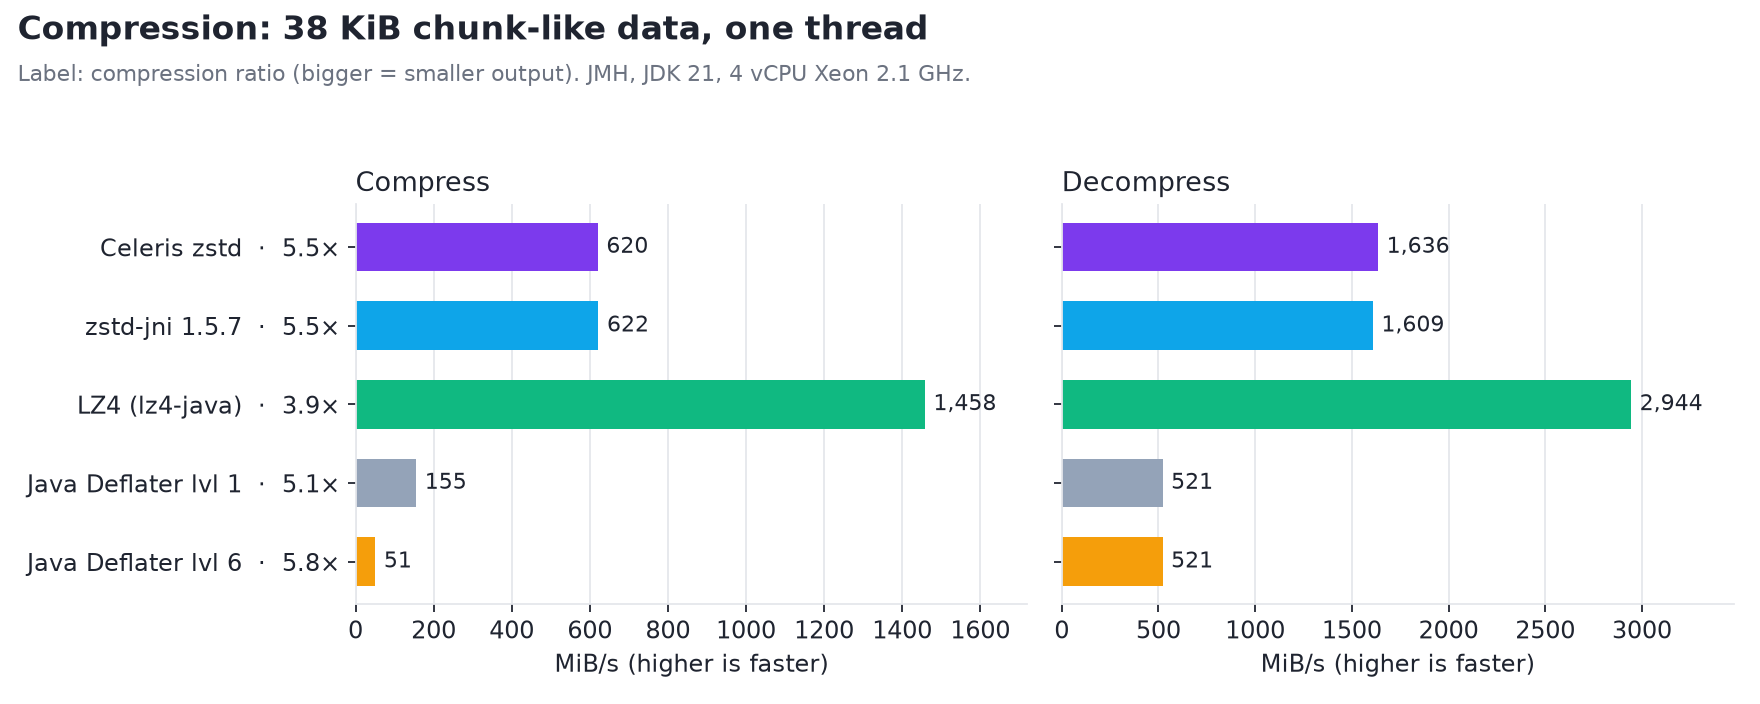
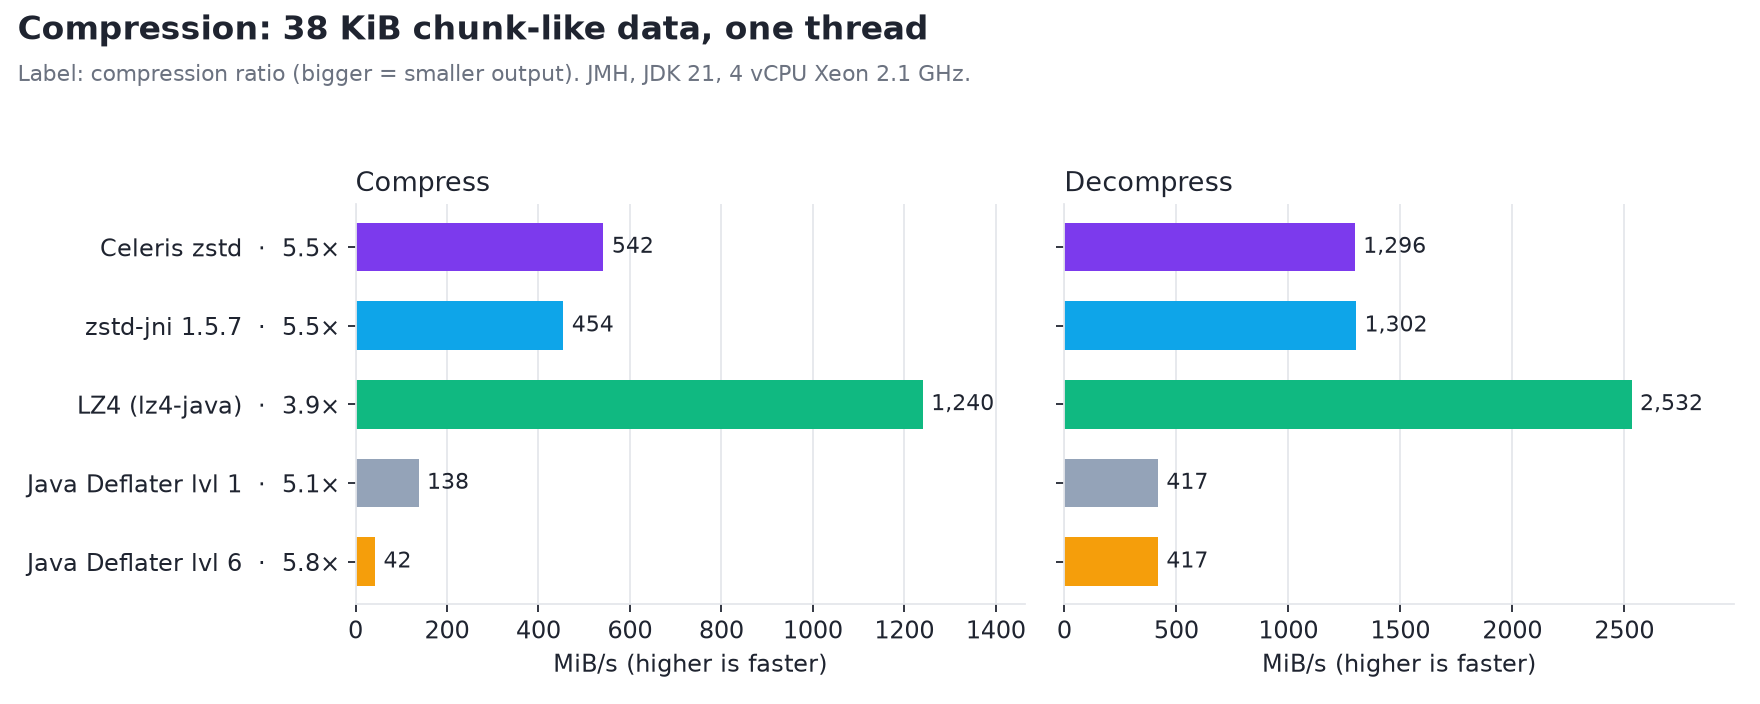
Benchmarks: re-measured on 0.2.3 (4586d93), real-server tick times added
Every number on docs/benchmarks.md and in the README is from this build:
- A real server (panzer-build-logic perf-test run 37779063591, native kernel
  loaded): 20,000 resting items, 139.9 -> 11.9 ms per tick on 1.21.1 (11.8x),
  219.1 -> 29.3 ms on 26.1 (7.5x); new ingame.png.
- JMH, same VM: compression, physics, queues re-run; new broadphase table and
  chart (piles of 4,096 / 16,384 items, stop vs full count).
- The page states the cost of the kernel's input checks and clamped floors
  (7-21 % on the isolated step, measured against the previous build in the
  same session) and where Java and native are level.

diff --git a/docs/benchmarks.md b/docs/benchmarks.md
@@ -1,28 +1,59 @@
 # Celeris benchmarks
 
 How Celeris's building blocks compare with what a mod would otherwise use: the JDK's own classes and the best-known
-Java libraries for the same job. Every number below comes from the code in [`benchmarks/`](../benchmarks) and the raw
-results in [`benchmarks/results/`](../benchmarks/results); `benchmarks/run.sh` reproduces them and redraws the charts.
+Java libraries for the same job, and what that adds up to on a real server. Every number below comes from the code in
+[`benchmarks/`](../benchmarks) and the raw results in [`benchmarks/results/`](../benchmarks/results);
+`benchmarks/run.sh` reproduces the JMH ones and redraws the charts. The in-game numbers come from
+panzer-build-logic's `perf-test` workflow.
 
-**Machine:** 4 vCPU Intel Xeon @ 2.1 GHz (shared cloud VM, AVX2), Linux, OpenJDK 21. **Harness:** JMH 1.37, 1 fork,
-3 × 1 s warm-up, 5 × 1 s measurement (± is JMH's 99.9 % error). A shared VM is noisy: read differences under ~20 % as
-a tie. Your numbers will differ; the ratios are what matter.
+**Measured:** 2026-10-08, Celeris 0.2.3 (commit 4586d93) with Velox 0.1.0. **Machine:** 4 vCPU Intel Xeon @ 2.1 GHz
+(shared cloud VM, AVX2), Linux, OpenJDK 21. **Harness:** JMH 1.37, 1 fork, 3 × 1 s warm-up, 5 × 1 s measurement
+(± is JMH's 99.9 % error). A shared VM is noisy: read differences under ~20 % as a tie. Your numbers will differ; the
+ratios are what matter.
 
 ## Summary
 
 | Job | Celeris | Compared with | Result |
 |---|---|---|---|
-| Compressing mod data (38 KiB) | native zstd, 620 MiB/s, ratio 5.5× | Java `Deflater` level 6 (what Minecraft uses), 51 MiB/s, ratio 5.8× | **12× faster** for nearly the same size |
-| Decompressing it | 1,636 MiB/s | Java `Inflater`, 521 MiB/s | **3.1× faster** |
-| Same, vs zstd-jni 1.5.7 | 620 / 1,636 MiB/s | 622 / 1,609 MiB/s | **tie**: same zstd 1.5.7 underneath, in a 2 MB jar instead of a 7.4 MB one |
-| Moving 10,000 dropped items one tick | 0.66 ms (native kernel) | 1.07 ms (same rules in Java, item by item) | **1.6× faster** |
-| 32,768 items on 3 threads | 0.87 ms | 3.40 ms (Java, one thread) | **3.9× faster**, under 2 % of a 50 ms tick |
-| One worker handing results to the game thread | 42.8 M/s | JCTools `MpscArrayQueue` 6.7 M/s, `ArrayBlockingQueue` 5.6 M/s | **6.4× faster** than JCTools |
-| Two or three workers at once | 7.6 / 5.8 M/s | JCTools 6.0 / 4.5, `ArrayBlockingQueue` 7.9 / 6.1 | **level** with the JDK's lock-based queue, ahead of JCTools |
+| A server with 20,000 dropped items, Minecraft 1.21.1 | 11.9 ms per tick (Velox + native kernel) | 139.9 ms, vanilla NeoForge | **11.8× faster**, from 3 TPS to a full 20 |
+| The same on Minecraft 26.1 | 29.3 ms per tick | 219.1 ms, vanilla NeoForge | **7.5× faster** |
+| Compressing mod data (38 KiB) | native zstd, 542 MiB/s, ratio 5.5× | Java `Deflater` level 6 (what Minecraft uses), 42 MiB/s, ratio 5.8× | **12.8× faster** for nearly the same size |
+| Decompressing it | 1,296 MiB/s | Java `Inflater`, 417 MiB/s | **3.1× faster** |
+| Same, vs zstd-jni 1.5.7 | 542 / 1,296 MiB/s | 454–489 / 1,218–1,302 MiB/s | **tie**: same zstd 1.5.7 underneath, in a 2 MB jar instead of a 7.4 MB one |
+| Moving 10,000 dropped items one tick | 0.97 ms (native kernel) | 1.35 ms (same rules in Java, item by item) | **1.4× faster** |
+| 32,768 items on 3 threads | 0.88 ms | 4.72 ms (Java, one thread) | **5.3× faster**, under 2 % of a 50 ms tick |
+| Finding touching items in a pile of 16,384 | 0.24 ms | 860–1,100 ms (every pair counted, as before 0.2.3) | **~4,000× faster** |
+| One worker handing results to the game thread | 39.5 M/s | JCTools `MpscArrayQueue` 8.0 M/s, `ArrayBlockingQueue` 4.3 M/s | **4.9× faster** than JCTools |
+| Two or three workers at once | 13.0 / 12.8 M/s | JCTools 8.7 / 9.7, `ArrayBlockingQueue` 4.9 / 3.8 | **1.3–1.5× faster** than JCTools |
 
-Where Celeris is not the fastest, this page says so: LZ4 compresses 2.4× faster than zstd, at the price of output about
-40 % larger (3.9× instead of 5.5×), and with several threads publishing at once on this 4-core machine the plain
-`ArrayBlockingQueue` keeps up with Celeris's lock-free ring.
+Where Celeris is not the fastest, this page says so: LZ4 compresses 2.3× faster than zstd, at the price of output about
+40 % larger (3.9× instead of 5.5×). The native physics kernel is 7–20 % slower than in the previous build of this
+page, because it now checks every item for impossible values and computes block coordinates without undefined
+behaviour (see [Batch physics](#batch-physics)); on a real server that is lost in the rest of the tick.
+
+## A real server
+
+![Server tick time](media/benchmarks/ingame.png)
+
+A dedicated NeoForge server on a GitHub Actions runner (4 vCPU), flat world, N swords thrown over a 112 × 112 area
+(swords never stack, so every configuration keeps all of them). Vanilla's `tick sprint` runs ticks back to back and
+reports the average milliseconds per tick: *falling* is the first 80 ticks after the throw, *resting* 1,200 ticks
+later with everything on the ground. Milliseconds per tick, lower is better; 50 ms is the 20 TPS budget:
+
+| Minecraft | Items | Vanilla falling / resting | Velox (native kernel) falling / resting | Speed-up |
+|---|---|---|---|---|
+| 1.21.1 | 2,000 | 5.43 / 3.92 | 0.93 / 0.62 | 5.8× / 6.3× |
+| 1.21.1 | 8,000 | 39.45 / 30.37 | 6.34 / 3.38 | 6.2× / 9.0× |
+| 1.21.1 | 20,000 | 171.52 / 139.95 | 17.48 / 11.91 | 9.8× / 11.8× |
+| 26.1 | 2,000 | 9.80 / 7.34 | 2.53 / 1.92 | 3.9× / 3.8× |
+| 26.1 | 8,000 | 64.30 / 50.10 | 14.71 / 9.55 | 4.4× / 5.2× |
+| 26.1 | 20,000 | 255.86 / 219.13 | 37.42 / 29.30 | 6.8× / 7.5× |
+
+With Celeris's Java kernel instead of the native one the server is within a few percent (20,000 items resting:
+13.39 ms on 1.21.1, 28.57 ms on 26.1): the item physics itself is now a small part of the tick, and what remains is
+Minecraft's own per-entity work (chunk ticking checks, entity tracking, fluid checks), which Velox leaves to the
+game. On 26.1, 0.2.3's Velox also skips the per-item "entity inside block" walk for items over plain blocks, which
+took 4× to 7.5× at 20,000 resting items.
 
 ## Compression
 
@@ -33,19 +64,19 @@ packet (3 KiB), one chunk (38 KiB) and a region-sized blob (1 MiB). Time per ope
 
 | | 3 KiB | 38 KiB | 1 MiB |
 |---|---|---|---|
-| **Celeris zstd, compress** (JNI binding, Java 21 without flags) | **10.2 ± 3.0** | **59.8 ± 7.9** | **2,644 ± 715** |
-| Celeris zstd, compress (FFM binding, `--enable-preview` / Java 25) | 10.0 ± 2.2 | 59.4 ± 21.1 | 2,628 ± 454 |
-| zstd-jni 1.5.7-6, compress (`byte[]`) | 9.7 ± 4.7 | 59.6 ± 18.0 | 2,591 ± 512 |
-| zstd-jni 1.5.7-6, compress (direct buffers) | 10.2 ± 1.4 | 60.7 ± 13.8 | 2,784 ± 442 |
-| LZ4 (lz4-java 1.8.0, fast), compress | 2.7 ± 0.6 | 25.5 ± 8.8 | 1,459 ± 295 |
-| Java `Deflater` level 1, compress | 15.9 ± 5.0 | 238.8 ± 48.4 | 7,200 ± 3,451 |
-| Java `Deflater` level 6, compress | 51.3 ± 14.0 | 732.8 ± 235.3 | 20,831 ± 3,996 |
-| **Celeris zstd, decompress** (JNI) | **4.6 ± 1.3** | **22.7 ± 11.2** | **830 ± 86** |
-| Celeris zstd, decompress (FFM) | 4.7 ± 2.1 | 23.5 ± 8.2 | 762 ± 172 |
-| zstd-jni, decompress (`byte[]`) | 4.9 ± 1.5 | 23.1 ± 1.8 | 821 ± 185 |
-| zstd-jni, decompress (direct) | 4.5 ± 1.7 | 23.8 ± 8.4 | 850 ± 148 |
-| LZ4, decompress | 1.6 ± 0.4 | 12.6 ± 2.2 | 377 ± 145 |
-| Java `Inflater` | 7.3 ± 2.1 | 71.2 ± 14.8 | 2,464 ± 527 |
+| **Celeris zstd, compress** (JNI binding, Java 21 without flags) | **10.7 ± 1.5** | **68.5 ± 12.1** | **2,814 ± 609** |
+| Celeris zstd, compress (FFM binding, `--enable-preview` / Java 25) | 12.5 ± 8.9 | 74.9 ± 23.0 | 2,838 ± 640 |
+| zstd-jni 1.5.7-6, compress (`byte[]`) | 11.8 ± 3.4 | 81.7 ± 58.0 | 3,132 ± 887 |
+| zstd-jni 1.5.7-6, compress (direct buffers) | 11.9 ± 4.4 | 75.9 ± 24.5 | 2,800 ± 446 |
+| LZ4 (lz4-java 1.8.0, fast), compress | 3.0 ± 0.2 | 29.9 ± 1.6 | 1,793 ± 473 |
+| Java `Deflater` level 1, compress | 19.6 ± 5.7 | 269.5 ± 38.4 | 8,392 ± 1,322 |
+| Java `Deflater` level 6, compress | 56.0 ± 11.0 | 873.6 ± 176.7 | 25,075 ± 4,713 |
+| **Celeris zstd, decompress** (JNI) | **5.3 ± 0.7** | **28.6 ± 6.9** | **959 ± 134** |
+| Celeris zstd, decompress (FFM) | 5.3 ± 0.7 | 27.6 ± 5.5 | 996 ± 261 |
+| zstd-jni, decompress (`byte[]`) | 5.9 ± 1.6 | 28.5 ± 10.2 | 1,081 ± 434 |
+| zstd-jni, decompress (direct) | 5.4 ± 0.9 | 30.5 ± 13.3 | 1,072 ± 476 |
+| LZ4, decompress | 1.8 ± 0.1 | 14.7 ± 2.1 | 470 ± 88 |
+| Java `Inflater` | 8.3 ± 1.0 | 88.9 ± 22.9 | 2,910 ± 417 |
 
 Compression ratio (original ÷ compressed):
 
@@ -74,13 +105,41 @@ still. Time per tick in µs:
 
 | Items | Java kernel | Native kernel (AVX2) | Speed-up |
 |---|---|---|---|
-| 1,000 | 104.6 ± 46.9 | 67.4 ± 20.1 | 1.6× |
-| 10,000 | 1,071.8 ± 307.1 | 656.7 ± 208.6 | 1.6× |
-| 32,768 | 3,398.9 ± 1,340.3 | 2,462.8 ± 756.3 | 1.4× |
-| 32,768, 3 worker threads | 1,193.1 ± 256.8 | 868.1 ± 146.7 | 1.4× (3.9× vs one Java thread) |
+| 1,000 | 129.5 ± 49.4 | 97.3 ± 14.7 | 1.3× |
+| 10,000 | 1,349.5 ± 321.7 | 973.3 ± 235.6 | 1.4× |
+| 32,768 | 4,721.0 ± 2,058.9 | 3,171.3 ± 489.3 | 1.5× |
+| 32,768, 3 worker threads | 1,454.3 ± 427.3 | 882.6 ± 163.5 | 1.6× (5.3× vs one Java thread) |
+
+Both kernels now refuse items whose position, speed or size is not a finite, plausible number (NaN, infinity,
+1e300, billions of blocks away) and leave them to vanilla, and they compute block coordinates through a clamp, so no
+input can make them read or write outside their buffers or hit undefined behaviour in C++. That costs: measured in
+the same session against the build before those checks, the step is 7–13 % slower at 10,000 items and 12–21 % at
+32,768 (callgrind: +11 % instructions on the baseline ISA). Results for every normal item are unchanged, bit for
+bit, between the Java and native kernels on every CPU (`PhysicsParityTest`), and AddressSanitizer/UBSan check the
+native one on x86-64 and ARM in CI (`native-sanitizers.yml`).
 
 The native kernel is picked automatically when the CPU and JVM allow it (AVX2, AVX-512 or NEON builds ship in the
 jar); otherwise the Java kernel runs with identical results.
+
+## Finding touching items
+
+![Broadphase on item piles](media/benchmarks/broadphase.png)
+
+`BodyBatch.broadphase` lists the pairs of items whose boxes touch (merge candidates, pushing). A pile of n items in
+one block is the worst case: nearly every pair touches, ~n²/2 of them. Before 0.2.3 every call counted them all;
+now the scan stops once the pair buffer (here n pairs) is full, and reports that the list was cut. The pairs kept are
+exactly the first ones of the full list, in the same order on the Java and native kernels. Time per call:
+
+| Items | Kernel | Every pair counted (before) | Stops at the buffer (0.2.3) | Speed-up |
+|---|---|---|---|---|
+| 4,096 | Java | 62.7 ± 23.7 ms | 0.061 ± 0.025 ms | ~1,000× |
+| 4,096 | native | 58.1 ± 8.8 ms | 0.056 ± 0.010 ms | ~1,000× |
+| 16,384 | Java | 924 ± 534 ms | 0.232 ± 0.055 ms | ~4,000× |
+| 16,384 | native | 934 ± 180 ms | 0.244 ± 0.046 ms | ~3,800× |
+
+Once the scan stops early, what is left is hashing every item into a cell and sorting them by cell, the same work
+on both kernels, so Java and native are level (the native broadphase is now compiled per ISA like the step; built for
+the baseline ISA only it was 15–20 % behind Java here).
 
 ## Handing results to the game thread
 
@@ -92,14 +151,14 @@ is full, the consumer when it is empty. Median of 9 rounds, in million values pe
 
 | Queue | 1 producer | 2 producers | 3 producers |
 |---|---|---|---|
-| **Celeris `MpscRingBuffer` (0.2.3)** | **42.8** | 7.6 | 5.8 |
+| **Celeris `MpscRingBuffer` (0.2.3)** | **39.5** | **13.0** | **12.8** |
 | Celeris `MpscRingBuffer` (0.2.2) | 10.9 | 5.5 | 4.2 |
-| JCTools `MpscArrayQueue` 4.0.5 | 6.7 | 6.0 | 4.5 |
-| `ArrayBlockingQueue` (JDK) | 5.6 | 7.9 | 6.1 |
-| `ConcurrentLinkedQueue` (JDK) | 7.2 | 4.2 | 3.1 |
+| JCTools `MpscArrayQueue` 4.0.5 | 8.0 | 8.7 | 9.7 |
+| `ArrayBlockingQueue` (JDK) | 4.3 | 4.9 | 3.8 |
+| `ConcurrentLinkedQueue` (JDK) | 6.8 | 6.5 | 5.0 |
 
 Celeris stores the values themselves in off-heap slots; the object queues box each one into a `Long`, which is part of
-their cost and is what a mod using them for primitive results pays too. 0.2.3 made the ring 4× faster with one
+their cost and is what a mod using them for primitive results pays too. 0.2.3 made the ring about 4× faster with one
 producer: producers no longer read the consumer's position on every publish (they keep a cached limit), and each
-slot's state word now sits next to its payload, so a hand-off touches one cache line instead of two. With 3 producers
-plus the consumer, this 4-core VM has every core busy, and all queues end up limited by the same contention.
+slot's state word now sits next to its payload, so a hand-off touches one cache line instead of two. (The 0.2.2 row
+was measured on the same machine on 2026-10-07; the others on 2026-10-08.)

diff --git a/README.md b/README.md
@@ -40,17 +40,26 @@
 
 ## 🏁 How fast
 
-Measured against what a mod would otherwise use (JMH, Java 21, a 4-core machine; full tables and method in
-[the benchmarks page](./docs/benchmarks.md)):
+On a real server (dedicated NeoForge, 20,000 dropped items resting on the ground), Velox with Celeris runs the tick
+in **11.9 ms instead of 139.9 ms on Minecraft 1.21.1 (11.8× faster)** and **29.3 ms instead of 219.1 ms on 26.1
+(7.5×)**: from 3–5 TPS back to a full 20.
 
-- 🗜 **12× faster compression** than Java's built-in deflate (what Minecraft uses) for nearly the same size, and
-  **3× faster decompression**. As fast as zstd-jni, the usual Java zstd library, in a jar a quarter of its size.
-- 🏃 **10,000 dropped items moved in 0.66 ms** per tick with the native kernel, 1.6× faster than the same rules in
-  Java; 32,768 items on 3 threads take 0.87 ms, under 2% of a tick.
-- 🧵 **6× faster hand-off** from one worker thread to the game thread than JCTools, the go-to lock-free queue library.
+Each building block, measured against what a mod would otherwise use (JMH, Java 21, a 4-core machine; full tables,
+method and the costs too in [the benchmarks page](./docs/benchmarks.md)):
 
+- 🗜 **12.8× faster compression** than Java's built-in deflate (what Minecraft uses) for nearly the same size, and
+  **3.1× faster decompression**. As fast as zstd-jni, the usual Java zstd library, in a jar a quarter of its size.
+- 🏃 **32,768 dropped items moved in 0.88 ms** per tick on 3 threads with the native kernel, 5.3× faster than the
+  same rules in Java on one thread and under 2 % of a tick.
+- 🧲 **Item piles no longer stall**: finding the touching items in a pile of 16,384 takes 0.24 ms instead of up to a
+  second.
+- 🧵 **4.9× faster hand-off** from one worker thread to the game thread than JCTools, the go-to lock-free queue
+  library, and still ahead with two or three workers.
+
+![Server tick time](./docs/media/benchmarks/ingame.png)
 ![Compression benchmark](./docs/media/benchmarks/compression.png)
 ![Physics benchmark](./docs/media/benchmarks/physics.png)
+![Broadphase benchmark](./docs/media/benchmarks/broadphase.png)
 ![Queue benchmark](./docs/media/benchmarks/queues.png)
 
 ## 📦 Requirements
